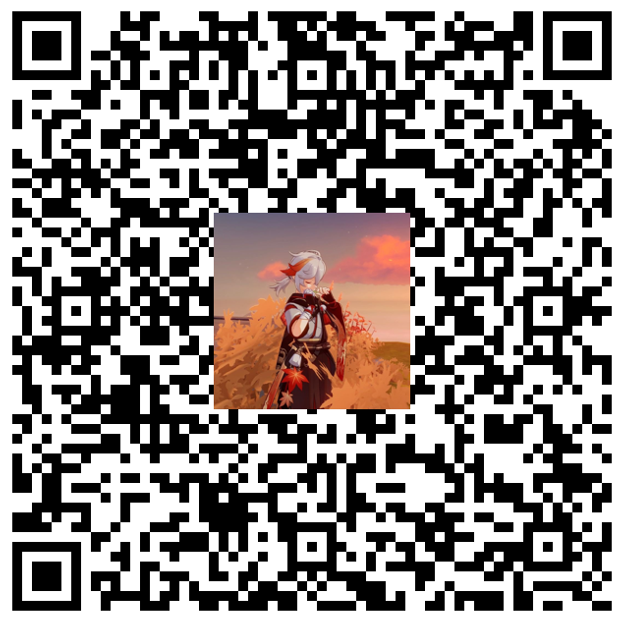
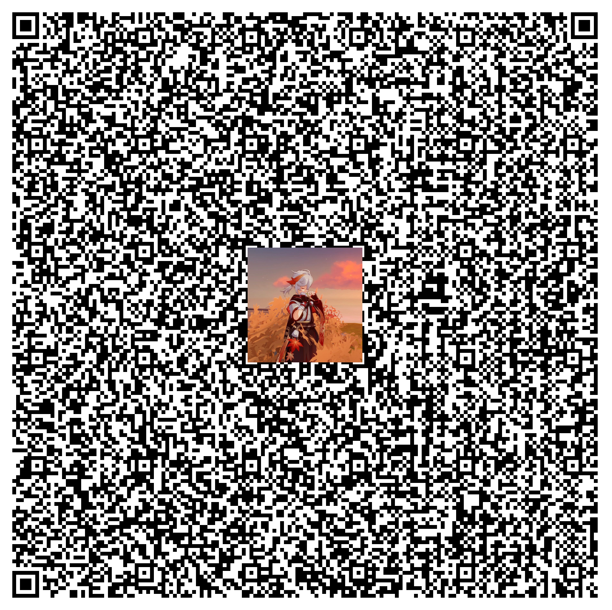
Checked errors.

diff --git a/QR Code Generator.py b/QR Code Generator.py
@@ -9,7 +9,7 @@ def generateQR():
         genQR.png(v, scale=10)
     finQR = Image.open('QRCode.png')
     width, height = finQR.size
-    logo_size = 200
+    logo_size = 300
     finQR = finQR.convert("RGBA")
     genLogo = Image.open('Logo.png')
     xmin = ymin = int((width / 2) - (logo_size / 2))
